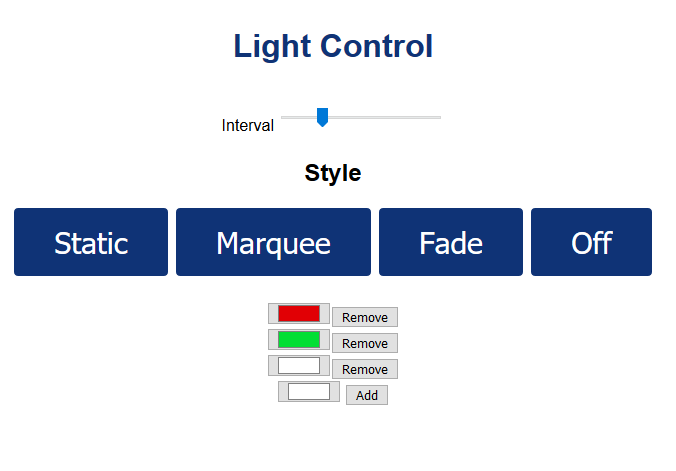
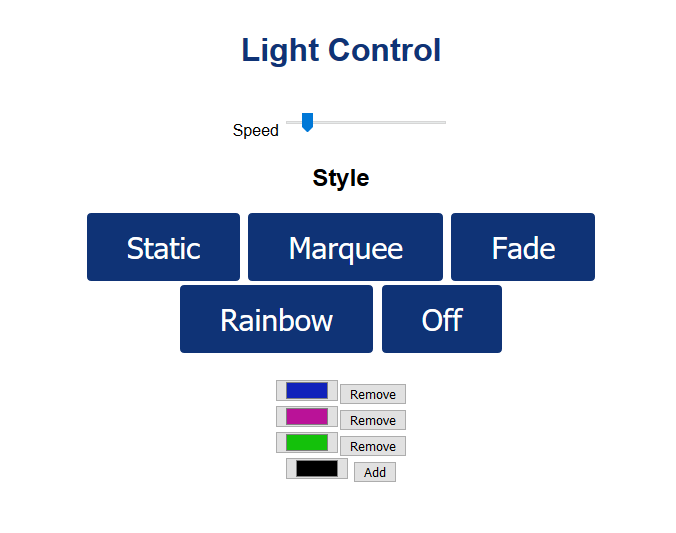
Add rainbow pattern

Changed region(s): [[0.0, 0.2972, 0.963, 0.9214], [0.3417, 0.0594, 0.6524, 0.1486], [0.3107, 0.2081, 0.6524, 0.2972]]

diff --git a/www/index.html b/www/index.html
@@ -8,7 +8,6 @@
     <link rel="stylesheet" href="style.css" />
     <script>
         let state = "off"
-        // let interval = 0.5
         let colors = []
 
         // https://stackoverflow.com/a/5624139
@@ -23,7 +22,7 @@
         }
 
         function setLights() {
-            let interval = document.getElementById("interval").value
+            let interval = 1.55 - document.getElementById("interval").value
             
             colors = [...document.getElementById("colorList").children].map(c => hexToRgb(c.getElementsByTagName("input")[0].value))
             console.log({ state, interval, colors })
@@ -61,13 +60,14 @@
 
 <body style="padding: 0 70px;">
     <h1>Light Control</h1>
-    <label for="interval">Interval</label>
+    <label for="interval">Speed</label>
     <input id="interval" type="range" min="0.05" max="1.5" step="0.05"/>
     <p>
         <h2>Style</h2>
         <button class="state" onclick="state='static';setLights()">Static</button>
         <button class="state" onclick="state='marquee';setLights()">Marquee</button>
         <button class="state" onclick="state='fade';setLights()">Fade</button>
+        <button class="state" onclick="state='rainbow';setLights()">Rainbow</button>
         <button class="state" onclick="state='off';setLights()">Off</button>
     </p>
     <div id="colorList"> </div>

diff --git a/lights.py b/lights.py
@@ -5,6 +5,7 @@ OFF = 0
 STATIC = 1
 MARQUEE = 2
 FADE = 3
+RAINBOW = 4
 
 class Lights():
 
@@ -30,6 +31,9 @@ class Lights():
             return
         elif self.state == FADE:
             self.fade()
+            return
+        elif self.state == RAINBOW:
+            self.rainbow()
             return
         
     def clear(self, color=None):
@@ -72,11 +76,27 @@ class Lights():
 
             for g in reversed(gradient):
                 self.clear(g)
-                time.sleep(self.interval)
+                time.sleep(self.interval / len(gradient))
 
             for g in gradient:
                 self.clear(g)
-                time.sleep(self.interval)
+                time.sleep(self.interval / len(gradient))
+
+    def rainbow(self):
+        r, g, b = 254, 0, 0
+        while r != 255:
+            if r > 0 and b == 0:
+                r -= 1
+                g += 1
+            if g > 0 and r == 0:
+                g -= 1
+                b += 1
+            if b > 0 and g == 0:
+                r += 1
+                b -= 1
+            self.clear((r, g, b))
+            time.sleep(self.interval / 10)
+
 
 
 

diff --git a/main.py b/main.py
@@ -42,6 +42,8 @@ def RequestTestPost(microWebSrv2, request) :
             lights.state = MARQUEE
         elif state == 'fade':
             lights.state = FADE
+        elif state == 'rainbow':
+            lights.state = RAINBOW
         else:
             lights.state = OFF
         if colors:
